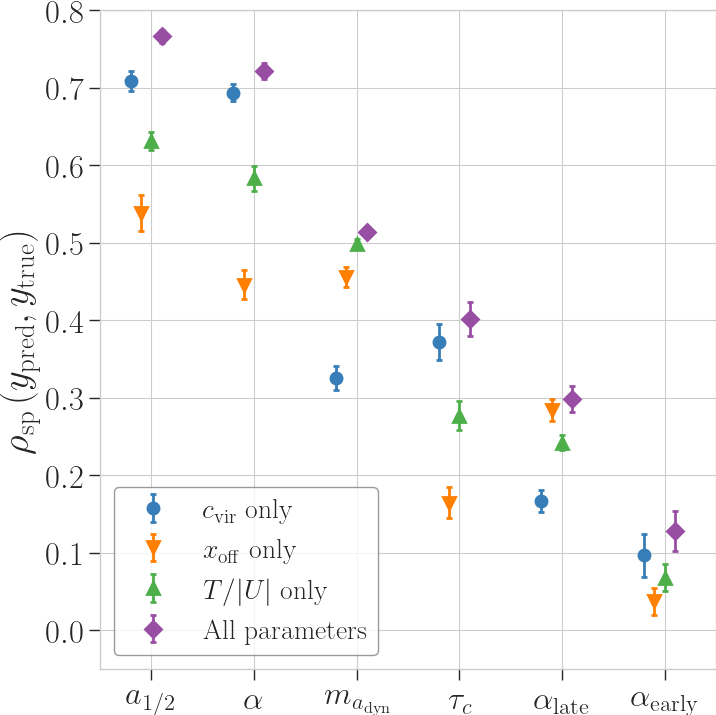
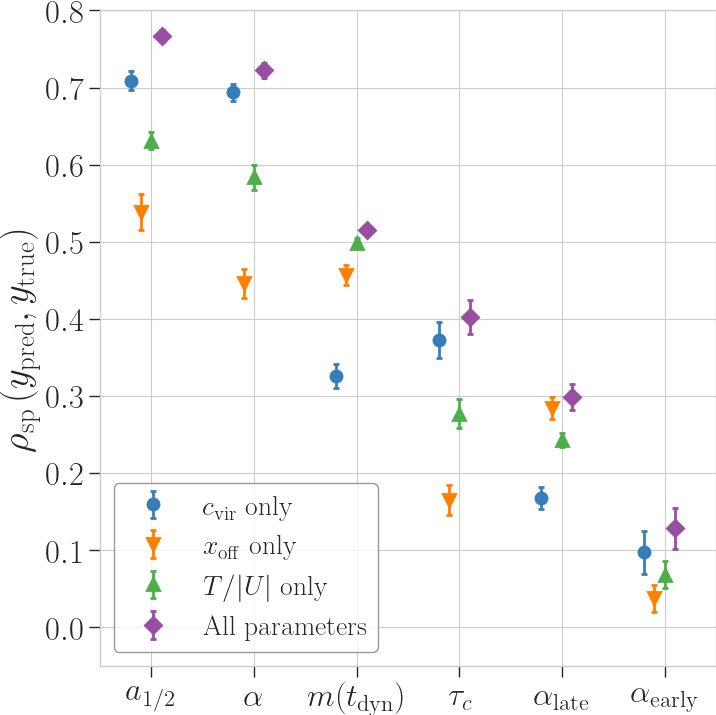
mtdyn and all propreties, not all parameters

diff --git a/bin/figures.py b/bin/figures.py
@@ -514,7 +514,7 @@ class PredictMAH(Figure):
             r"\rm $c_{\rm vir}$ only",
             r"\rm $x_{\rm off}$ only",
             r"\rm $T / \vert U \vert$ only",
-            r"\rm All parameters",
+            r"\rm All properties",
         ]
 
         # (1) Correlation m(a) vs m_pred(a) figure

diff --git a/relaxed/plotting.py b/relaxed/plotting.py
@@ -30,7 +30,7 @@ LATEX_PARAMS = {
     "a2": r"$a_{1/2}$",
     "a4": r"$a_{3/4}$",
     "alpha": r"$\alpha$",
-    "mdyn": r"$m_{a_{\rm dyn}}$",
+    "mdyn": r"$m(t_{\rm dyn})$",
     "tau_c": r"$\tau_{c}$",
     "alpha_early": r"$\alpha_{\rm early}$",
     "alpha_late": r"$\alpha_{\rm late}$",
